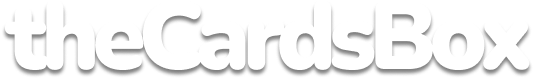
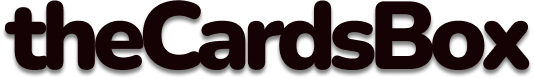
Landing page update

diff --git a/tcb_landingpage/components/Landingpage.js b/tcb_landingpage/components/Landingpage.js
@@ -10,7 +10,7 @@ const Landingpage = () => {
   return (
     <div className="relative overflow-hidden">
       <Popover as="header" className="relative">
-        <div className="bg-gray-900 pt-6">
+        <div className="bg-white pt-6">
           <nav
             className="relative mx-auto flex max-w-7xl items-center justify-between px-4 sm:px-6"
             aria-label="Global"
@@ -20,17 +20,10 @@ const Landingpage = () => {
                 <Image
                   src={theCardsBoxLogo}
                   alt=""
-                  width={100}
                   height={100}
+                  width={300}
                   className="mt-8"
                 />
-
-                <div className="-mr-2 flex items-center md:hidden">
-                  <Popover.Button className="focus-ring-inset inline-flex items-center justify-center rounded-md bg-gray-900 p-2 text-gray-400 hover:bg-gray-800 focus:outline-none focus:ring-2 focus:ring-white">
-                    <span className="sr-only">Open main menu</span>
-                    <Bars3Icon className="h-6 w-6" aria-hidden="true" />
-                  </Popover.Button>
-                </div>
               </div>
             </div>
             <div className="hidden md:flex md:items-center md:space-x-6">
@@ -54,12 +47,12 @@ const Landingpage = () => {
       </Popover>
 
       <main>
-        <div className="bg-gray-900 pt-10 sm:pt-16 lg:overflow-hidden lg:pt-8 lg:pb-14">
+        <div className="bg-white pt-10 sm:pt-16 lg:overflow-hidden lg:pt-8 lg:pb-14">
           <div className="mx-auto max-w-7xl lg:px-8">
             <div className="lg:grid lg:grid-cols-2 lg:gap-8">
               <div className="mx-auto max-w-md px-4 sm:max-w-2xl sm:px-6 sm:text-center lg:flex lg:items-center lg:px-0 lg:text-left">
                 <div className="lg:py-24">
-                  <h1 className="mt-4 text-4xl font-bold tracking-tight text-white sm:mt-5 sm:text-6xl lg:mt-6 xl:text-5xl">
+                  <h1 className="mt-4 text-4xl font-bold tracking-tight text-black sm:mt-5 sm:text-6xl lg:mt-6 xl:text-5xl">
                     <span className="block">Trade your cards on Solana</span>
                     <span className="block text-indigo-400">
                       and save tons of money
@@ -72,33 +65,45 @@ const Landingpage = () => {
                     around the world.
                   </p>
                   <div className="mt-10 sm:mt-12">
-                    <form action="#" className="sm:mx-auto sm:max-w-xl lg:mx-0">
+                    <form
+                      action="https://www.getrevue.co/profile/thecardsbox/add_subscriber"
+                      method="post"
+                      id="revue-form"
+                      name="revue-form"
+                      target="_blank"
+                      className="sm:mx-auto sm:max-w-xl lg:mx-0"
+                    >
                       <div className="sm:flex">
                         <div className="min-w-0 flex-1">
-                          <label htmlFor="email" className="sr-only">
-                            Email address
-                          </label>
                           <input
-                            id="email"
-                            type="email"
                             placeholder="Enter your email"
+                            type="email"
+                            name="member[email]"
                             className="block w-full rounded-md border-0 px-4 py-3 text-base text-gray-900 placeholder-gray-500 focus:outline-none focus:ring-2 focus:ring-indigo-300 focus:ring-offset-2 focus:ring-offset-gray-900"
                           />
                         </div>
                         <div className="mt-3 sm:mt-0 sm:ml-3">
                           <button
                             type="submit"
-                            className="block w-full rounded-md bg-indigo-500 py-3 px-4 font-medium text-white shadow hover:bg-indigo-600 focus:outline-none focus:ring-2 focus:ring-indigo-300 focus:ring-offset-2 focus:ring-offset-gray-900"
+                            value="Join now !"
+                            name="member[subscribe]"
+                            className="block w-full rounded-md bg-indigo-500 py-3 px-4 font-medium text-black shadow hover:bg-indigo-600 focus:outline-none focus:ring-2 focus:ring-indigo-300 focus:ring-offset-2 focus:ring-offset-gray-900"
                           >
                             Join waitlist
                           </button>
                         </div>
                       </div>
                       <p className="mt-3 text-sm text-gray-300 sm:mt-4">
-                        Join the waitlist and be notify when theCardsBox launch.
-                        By providing your email, you agree to our{" "}
-                        <a href="#" className="font-medium text-white">
-                          terms of service
+                        By subscribing, you agree with Revue’s{" "}
+                        <a target="_blank" href="https://www.getrevue.co/terms">
+                          Terms of Service
+                        </a>{" "}
+                        and{" "}
+                        <a
+                          target="_blank"
+                          href="https://www.getrevue.co/privacy"
+                        >
+                          Privacy Policy
                         </a>
                         .
                       </p>

diff --git a/tcb_landingpage/tailwind.config.js b/tcb_landingpage/tailwind.config.js
@@ -51,6 +51,9 @@ module.exports = {
         cardsboxred: '#C22C39',
         cardsboxblue: '#1f396E',
         youtube: '#FF0000',
+        solanagreen: '#00FFA3',
+        solanablue: '#03E1FF',
+        solanapurple: '#DC1FFF',
       },
       fontFamily: {
         balsamiq: "'Balsamiq Sans', cursive",
@@ -69,3 +72,4 @@ module.exports = {
   },
   plugins: [],
 };
+
